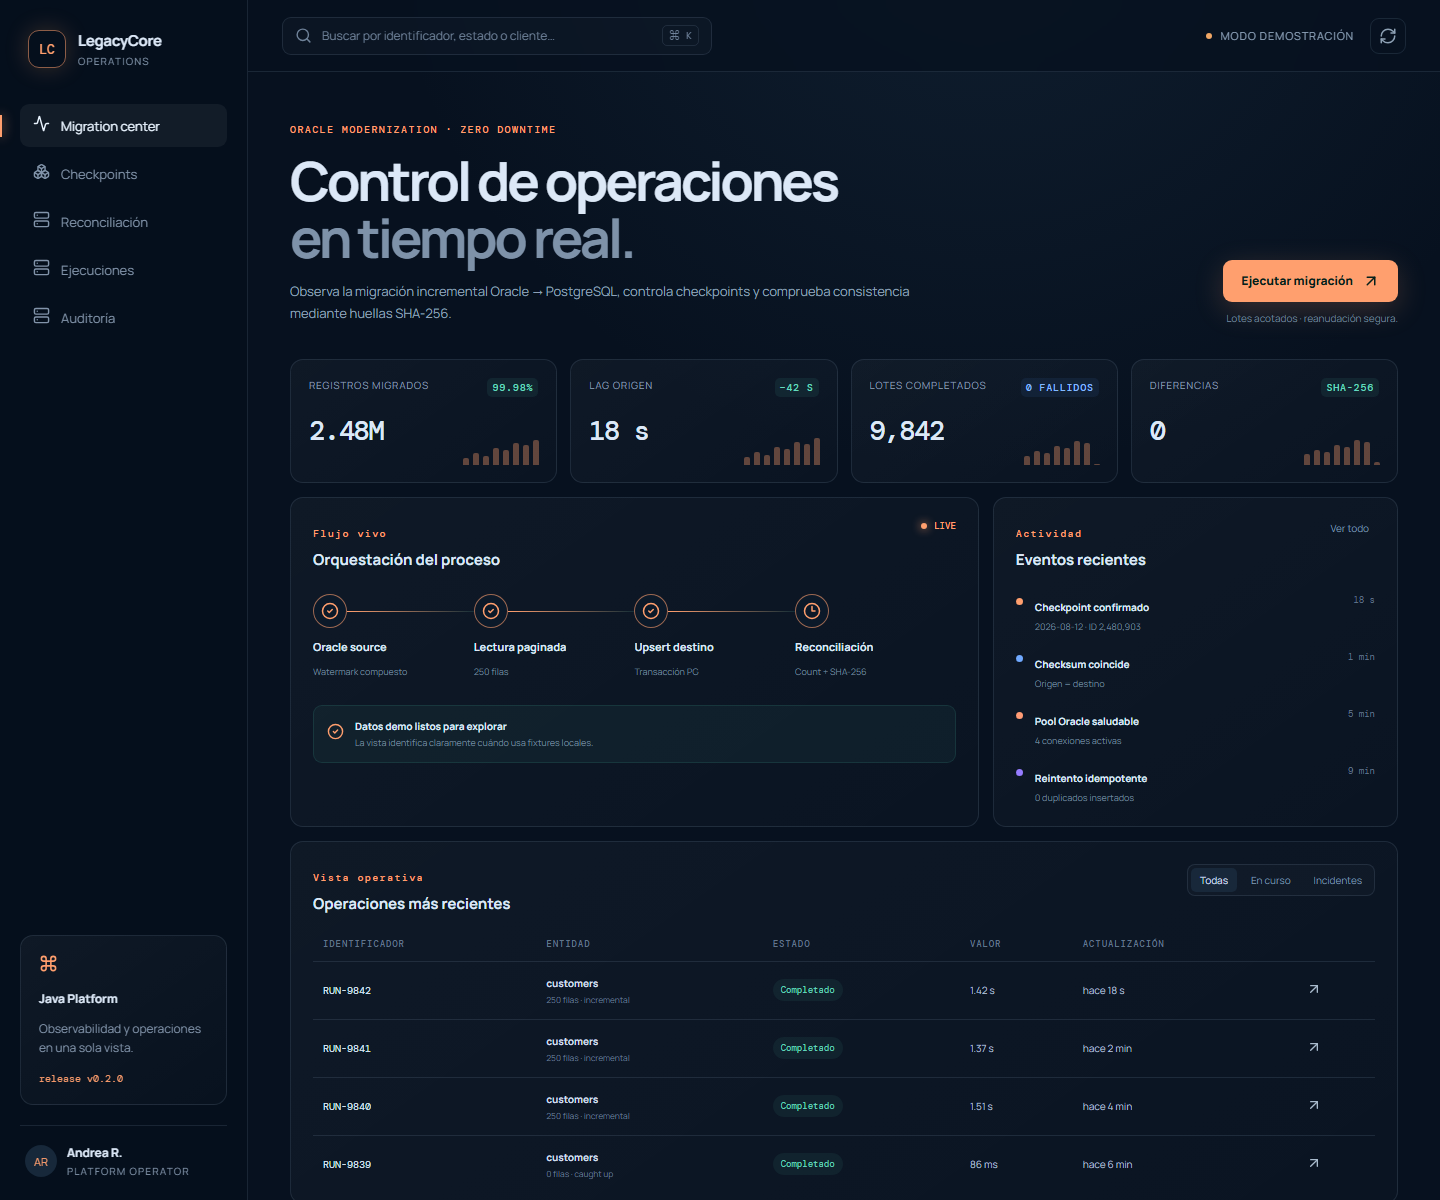
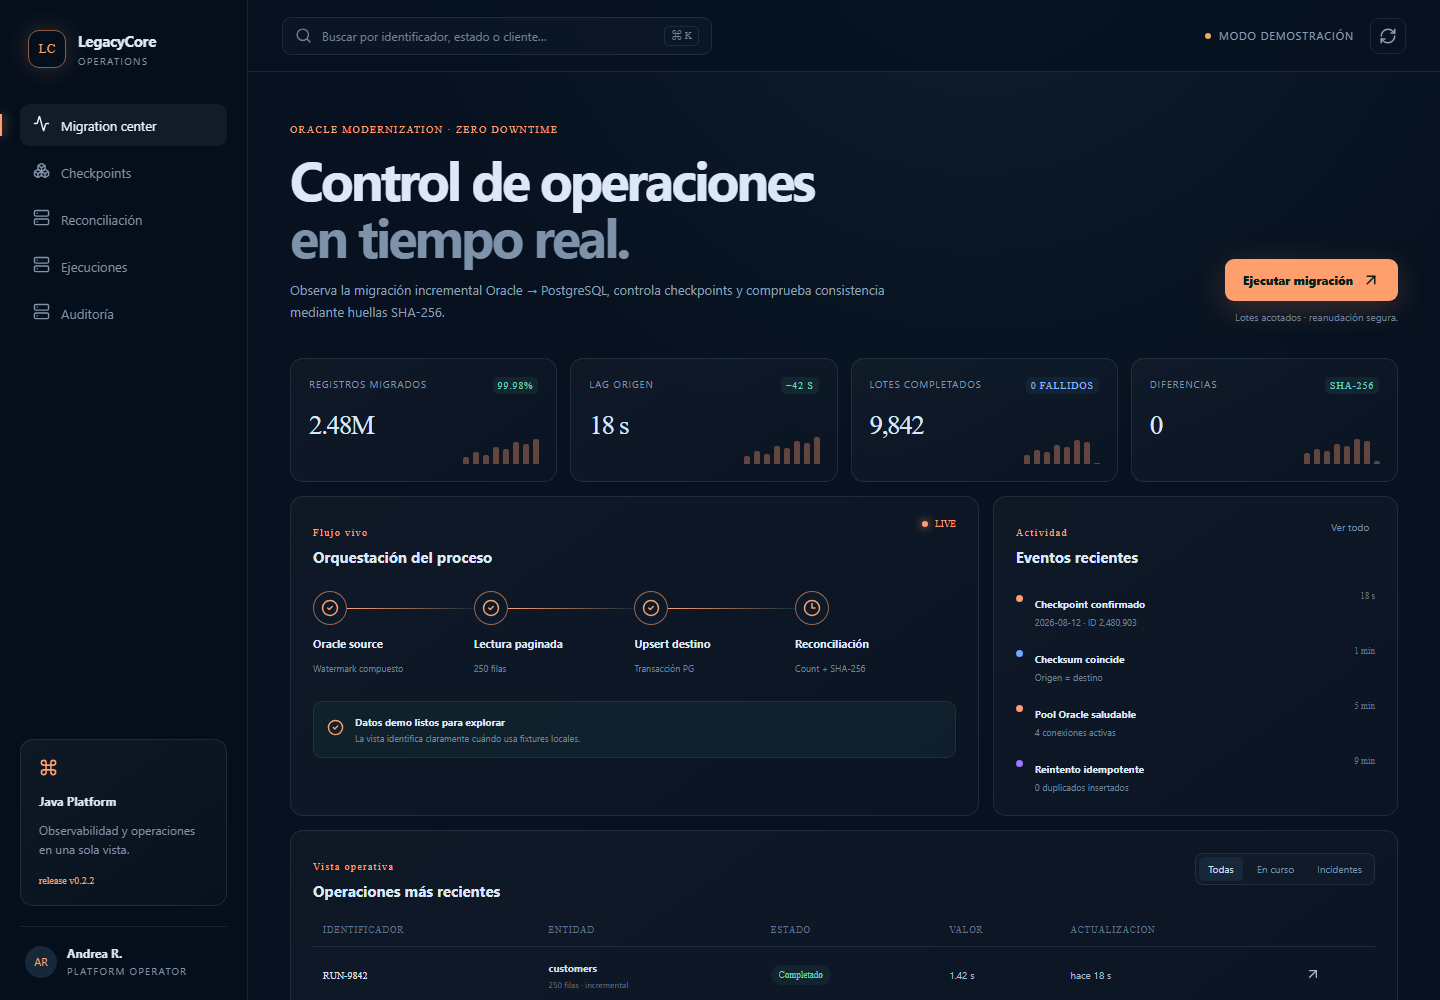
docs(portfolio): present project as complete case study

diff --git a/frontend/src/App.tsx b/frontend/src/App.tsx
@@ -18,7 +18,7 @@ export default function App() {
       <button className="close" aria-label="Cerrar menú" onClick={()=>setMobile(false)}><X/></button>
       <div className="brand"><span className="brand-mark">{project.initials}</span><div><b>{project.name}</b><small>Operations</small></div></div>
       <nav>{project.nav.map((item,index)=><button className={index===0?'active':''} key={item}><span>{index===0?<Activity size={17}/>:index===1?<Boxes size={17}/>:<Server size={17}/>}</span>{item}</button>)}</nav>
-      <div className="sidebar-card"><Command size={19}/><b>Java Platform</b><p>Observabilidad y operaciones en una sola vista.</p><span>release {project.release ?? 'v0.2.0'}</span></div>
+      <div className="sidebar-card"><Command size={19}/><b>Java Platform</b><p>Observabilidad y operaciones en una sola vista.</p><span>release {project.release ?? 'v0.2.2'}</span></div>
       <div className="profile"><span>AR</span><div><b>Andrea R.</b><small>Platform operator</small></div></div>
     </aside>
     <main>

diff --git a/README.md b/README.md
@@ -1,73 +1,207 @@
-# LegacyCore Modernization Service
+<p align="center">
+  <img src="docs/screenshots/dashboard-desktop.png" alt="Centro de migración LegacyCore" width="820">
+</p>
 
-## Objetivo del proyecto
+<h1 align="center">LegacyCore Modernization Service</h1>
 
-Demostrar una modernización empresarial Oracle → PostgreSQL sin migraciones
-irrepetibles: lectura incremental, checkpoints transaccionales, reanudación,
-reconciliación y operación Linux. La consola React permite observar avance,
-lag y consistencia del proceso.
+<p align="center"><i>Migración incremental Oracle → PostgreSQL con checkpoints,
+reanudación y reconciliación verificable.</i></p>
 
-## Evidencia visual
+<p align="center">
+  <a href="https://github.com/danielyatacoblas/legacycore-modernization-service/actions/workflows/ci.yml"><img src="https://github.com/danielyatacoblas/legacycore-modernization-service/actions/workflows/ci.yml/badge.svg?branch=main" alt="CI"></a>
+  <img src="https://img.shields.io/badge/Java-21-ED8B00?logo=openjdk&logoColor=white" alt="Java 21">
+  <img src="https://img.shields.io/badge/Spring_Boot-4.1-6DB33F?logo=springboot&logoColor=white" alt="Spring Boot">
+  <img src="https://img.shields.io/badge/Oracle-origen-F80000?logo=oracle&logoColor=white" alt="Oracle">
+  <img src="https://img.shields.io/badge/PostgreSQL-destino-4169E1?logo=postgresql&logoColor=white" alt="PostgreSQL">
+  <img src="https://img.shields.io/badge/Linux-systemd-FCC624?logo=linux&logoColor=black" alt="Linux">
+  <img src="https://img.shields.io/badge/pruebas-3_aprobadas-2EAD33" alt="3 pruebas">
+  <a href="LICENSE"><img src="https://img.shields.io/badge/licencia-MIT-blue" alt="MIT"></a>
+</p>
 
-![Centro de migración LegacyCore](docs/screenshots/dashboard-desktop.png)
+---
 
-| Arquitectura | Flujo funcional | GitFlow |
-|---|---|---|
-| ![Arquitectura](diagrams/rendered/architecture.svg) | ![Flujo](diagrams/rendered/flow.svg) | ![GitFlow](diagrams/rendered/gitflow.svg) |
+## Qué es
 
-Disponible también la [vista móvil](docs/screenshots/dashboard-mobile.png).
+Una migración empresarial rara vez cabe en una ventana de mantenimiento. Si el
+proceso mueve millones de registros y falla en el lote 9842, volver a comenzar
+es caro; continuar sin saber qué quedó confirmado es peligroso.
 
-## Consola web
+**LegacyCore implementa una modernización incremental y reanudable.** Lee
+Oracle con un watermark compuesto `(updated_at, customer_id)`, transforma a
+un modelo controlado, ejecuta upsert en PostgreSQL y avanza el checkpoint en la
+misma transacción. Una reconciliación posterior compara cantidad y SHA-256
+canónico entre origen y destino.
+
+---
+
+## Probar la consola sin Oracle
 
 ```bash
-cd frontend
+git clone https://github.com/danielyatacoblas/legacycore-modernization-service.git
+cd legacycore-modernization-service/frontend
 npm ci
 npm run dev
 ```
 
-La UI abre en `http://localhost:5177` y enruta la API hacia
-`http://localhost:8095`.
+Abrir `http://localhost:5177`. Las ejecuciones, checksums y registros son
+sintéticos; la UI indica que funciona en modo demostración.
 
-Servicio Java 21 + Spring Boot para una modernización incremental Oracle → PostgreSQL con reanudación segura, trazabilidad y reconciliación verificable.
+---
 
-## Capacidades
+## Funcionalidades
 
-- Lectura incremental mediante watermark compuesto `(updated_at, customer_id)`.
-- Upsert idempotente y checkpoint en una única transacción PostgreSQL.
-- Historial de ejecuciones completadas/fallidas y límites de protección por lote.
-- Reconciliación por cantidad y SHA-256 canónico de todos los registros.
-- APIs REST con validación y errores RFC 9457 (`ProblemDetail`).
-- Health checks, Prometheus, Docker, CI y unidad `systemd` para Linux.
+1. Lectura incremental con watermark compuesto y orden estable.
+2. Lotes acotados por `batchSize` y `maxBatches`.
+3. Upsert idempotente en PostgreSQL.
+4. Checkpoint y datos confirmados dentro de una única transacción.
+5. Historial de ejecuciones completadas o fallidas.
+6. Reconciliación por cantidad y SHA-256 canónico.
+7. Errores REST con `ProblemDetail` RFC 9457.
+8. Health, Prometheus, Dockerfile, unidad systemd y consola React.
 
-## Ejecución local
+---
 
-Requiere Java 21 y Docker Desktop.
+## Capturas
+
+| Escritorio | Móvil |
+|---|---|
+| <img src="docs/screenshots/dashboard-desktop.png" alt="LegacyCore escritorio" width="620"> | <img src="docs/screenshots/dashboard-mobile.png" alt="LegacyCore móvil" width="230"> |
+
+---
+
+## Arquitectura y recorrido
+
+<p align="center">
+  <img src="diagrams/rendered/architecture.svg" alt="Arquitectura LegacyCore" width="820">
+</p>
+
+<p align="center">
+  <img src="diagrams/rendered/flow.svg" alt="Flujo de migración LegacyCore" width="820">
+</p>
+
+La explicación ampliada está en [`docs/ARCHITECTURE.md`](docs/ARCHITECTURE.md).
+
+---
+
+## Decisiones de diseño
+
+- **Watermark compuesto:** el timestamp solo no distingue filas actualizadas en
+  el mismo instante.
+- **Checkpoint transaccional:** nunca declara procesado un lote cuyo upsert no
+  quedó confirmado.
+- **Upsert idempotente:** repetir el lote después de una caída converge al
+  mismo estado.
+- **Límites por ejecución:** el operador controla cuánto trabajo realiza cada
+  llamada.
+- **Checksum canónico:** compara contenido estable, no orden accidental ni
+  representación específica del driver.
+- **Operación Linux incluida:** el repositorio contiene Dockerfile y unidad
+  systemd, no solo código de aplicación.
+
+---
+
+## Demo completa
+
+Requiere Java 21, Docker y Node.js 24.
 
 ```bash
 docker compose up -d --wait
 ./gradlew bootRun
 ```
 
-En otra consola:
+Compose inicia Oracle con tres clientes ficticios y PostgreSQL. La API queda en
+`http://localhost:8095`.
 
 ```bash
-curl -X POST http://localhost:8095/api/v1/migrations/customers \
-  -H 'Content-Type: application/json' \
-  -d '{"batchSize":2,"maxBatches":10}'
+curl -X POST http://localhost:8095/api/v1/migrations/customers +  -H "Content-Type: application/json" +  -d '{"batchSize":2,"maxBatches":10}'
+
 curl http://localhost:8095/api/v1/migrations/customers/status
 curl http://localhost:8095/api/v1/reconciliation/customers
 ```
 
-La reconciliación esperada contiene `"consistent":true`. Oracle se inicializa con tres clientes demostrativos.
+La reconciliación final debe devolver `"consistent": true`.
+
+---
 
 ## API
 
 | Método | Ruta | Uso |
 |---|---|---|
-| POST | `/api/v1/migrations/customers` | Ejecuta hasta `maxBatches` lotes |
-| GET | `/api/v1/migrations/customers/status` | Watermark y ejecuciones |
-| GET | `/api/v1/reconciliation/customers` | Conteos y checksums |
-| GET | `/actuator/health` | Salud operativa |
-| GET | `/actuator/prometheus` | Métricas |
+| `POST` | `/api/v1/migrations/customers` | Ejecutar lotes |
+| `GET` | `/api/v1/migrations/customers/status` | Checkpoint e historial |
+| `GET` | `/api/v1/reconciliation/customers` | Conteos y checksums |
+| `GET` | `/actuator/health` | Salud |
+| `GET` | `/actuator/prometheus` | Métricas |
 
-Consulta [docs/ARCHITECTURE.md](docs/ARCHITECTURE.md) para decisiones y garantías de recuperación.
+---
+
+## Pruebas y comandos
+
+```bash
+./gradlew clean test bootJar --no-daemon
+cd frontend && npm ci && npm test && npm run build
+```
+
+| Comando | Resultado |
+|---|---|
+| `docker compose up -d --wait` | Oracle y PostgreSQL de demo |
+| `./gradlew bootRun` | API en 8095 |
+| `./gradlew clean test` | Checksums y comportamiento Java |
+| `pwsh scripts/verify.ps1` | Backend y frontend |
+| `pwsh scripts/render-diagrams.ps1` | Diagramas reproducibles |
+
+---
+
+## Stack
+
+| Capa | Tecnología |
+|---|---|
+| Backend | Java 21, Spring Boot 4.1, Spring JDBC |
+| Origen | Oracle Free |
+| Destino | PostgreSQL, Flyway |
+| Integridad | Watermark, checkpoint, SHA-256 |
+| Operación | Docker, Linux, systemd, Prometheus |
+| Frontend | React 19, TypeScript 7, Vite 8 |
+| Pruebas | JUnit, Spring Boot Test, Vitest |
+
+---
+
+## GitFlow
+
+<p align="center">
+  <img src="diagrams/rendered/gitflow.svg" alt="GitFlow LegacyCore" width="760">
+</p>
+
+El repositorio conserva releases en `main`, integración en `develop` y
+ramas `feature/*`, `docs/*`, `fix/*`, `hotfix/*` y `release/*`.
+Los merges son `--no-ff` y las versiones llevan tag.
+
+---
+
+## Estructura
+
+```text
+legacycore-modernization-service/
+├── src/main/java/              # Lectura, migración, reconciliación y API
+├── src/main/resources/         # Configuración y Flyway
+├── src/test/                   # Checksum canónico
+├── frontend/                   # Centro de migración React
+├── docs/                       # Arquitectura e índice documental
+├── infra/                      # Infraestructura asociada
+├── ops/                        # Unidad systemd
+├── diagrams/                   # Mermaid y renders
+├── scripts/                    # Verificación y diagramas
+├── Dockerfile
+└── compose.yaml                # Oracle + PostgreSQL
+```
+
+---
+
+## Autor
+
+[Daniel Yataco Blas](https://github.com/danielyatacoblas) — autor principal
+del diseño, implementación, pruebas y documentación.
+
+## Licencia
+
+[MIT](LICENSE) · Daniel Yataco Blas

diff --git a/docs/README.md b/docs/README.md
@@ -1,0 +1,11 @@
+# Documentación de LegacyCore
+
+| Recurso | Contenido |
+|---|---|
+| [Arquitectura](ARCHITECTURE.md) | Watermarks, checkpoints, upsert y reconciliación |
+| [Capturas](screenshots) | Centro de migración en escritorio y móvil |
+| [Diagramas](../diagrams) | Arquitectura, migración y GitFlow |
+| [Operación Linux](../ops) | Unidad systemd y soporte operativo |
+| [Infraestructura](../infra) | Recursos asociados al despliegue |
+
+Los diagramas se regeneran con `pwsh scripts/render-diagrams.ps1`.
